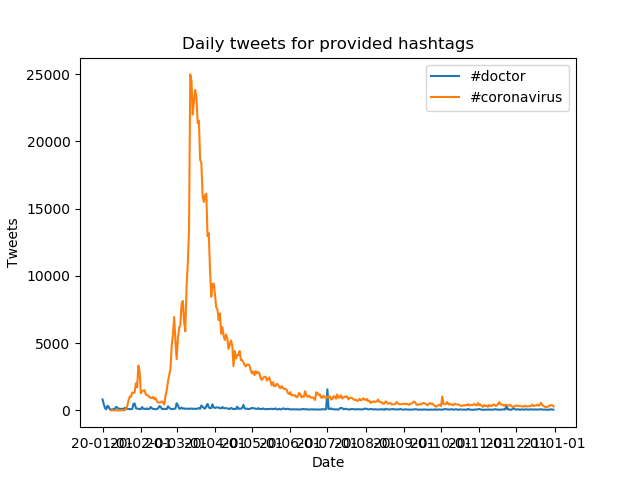
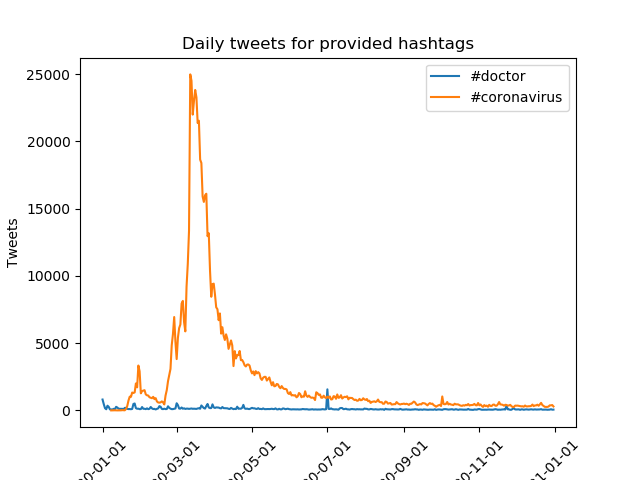
Rotated x axis dates

diff --git a/src/alternative_reduce.py b/src/alternative_reduce.py
@@ -47,9 +47,10 @@ for hsh in args.hashtags:
     dates_list = [datetime.strptime(date_str, "%y-%m-%d") for date_str in dates]
     ax.plot(dates_list, counts, label=hsh)
 
-ax.xaxis.set_major_locator(mdate.MonthLocator(interval=1))
+ax.xaxis.set_major_locator(mdate.MonthLocator(interval=2))
 ax.xaxis.set_major_formatter(mdate.DateFormatter("%y-%m-%d"))
 
+plt.xticks(rotation=45)
 plt.xlabel('Date')
 plt.ylabel('Tweets')
 plt.title('Daily tweets for provided hashtags')
